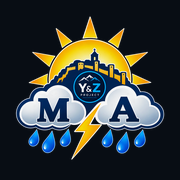
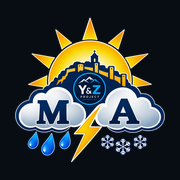
feat(assets): logotipo con nieve en la nube de la A (#54)
La nube derecha (A) cambia las gotas por copos de nieve. Se sustituyen
con el mismo nombre el original de 1024 px, la cabecera de 128 px,
el icono de 192 px, el icono de Apple de 180 px y el favicon, así que
no hay que tocar ninguna página.

Claude-Session: https://claude.ai/code/session_01BdTtrC9zbU6oo9yPXz8vnb

Changed region(s): [[0.0833, 0.0833, 0.9167, 0.9167], [0.6667, 0.5278, 0.7222, 0.5833]]

diff --git a/docs/estado.md b/docs/estado.md
@@ -113,3 +113,4 @@ No se marca nada como hecho que no esté en `main`.
 - 2026-10-29 · Actualidad: gráficas de El Silo frente a Los Llanos (7 días y máximas y mínimas de 30 días) con el visor de estadísticas; pendiente de fusionar y publicar.
 - 2026-10-29 · Timelapses de una sola vez en el formulario de Administración; pendiente de fusionar y de desplegar después de la API.
 - 2026-10-31 · El visor en directo deja de pintar cifras y marca porque el VPS las graba en el vídeo; pendiente de publicar tras activarlo en el VPS.
+- 2026-11-01 · Logotipo nuevo: la nube de la A lleva copos de nieve en lugar de gotas. Sustituidos el original, la cabecera, los iconos (192 y Apple) y el favicon con los mismos nombres; pendiente de fusionar y publicar.
